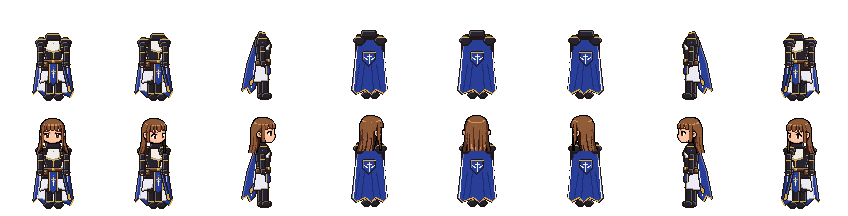
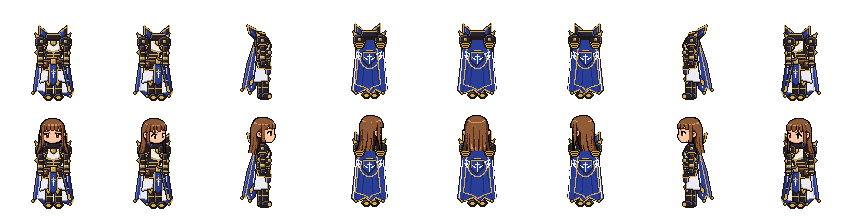
BladeMaster designs made grander than the Blader's
A tall flared armoured collar, great layered pauldrons with gold points,
gold filigree and a gem medallion on the chest, a trailing scarf end,
a double belt with a gold buckle, armoured hip plates, gold-cuffed
gauntlets with elbow points, gold knee guards and toe caps, an ornate
sword with a winged gold guard, and a gold-tipped cape framed in
filigree with the winged crest in a gold ring.

Claude-Session: https://claude.ai/code/session_01YNjFsLY1wykPSJC6NrukSP

diff --git a/src/bladers.js b/src/bladers.js
@@ -5,9 +5,13 @@
 //   her), a shield crest, a white shirt, brown belts, a shoulder strap and pouches, a navy tabard,
 //   fingerless brown gloves, black trousers (black tights and a short skirt on her), tall brown boots
 //   and a navy sheathed sword at the hip; a steel pauldron on his right shoulder.
-// - BladeMaster: black armour edged in gold with blue gems, a high collar, a long navy cape lined
-//   in white with pointed ends and the crest on its back, white and navy coat tails, black gauntlets
-//   and greaves (thigh-high boots on her), a navy scarf on him and a white breastplate on her.
+// - BladeMaster, grander than the Blader: black armour worked with gold filigree and blue gems, a
+//   tall flared collar standing behind the head, great layered pauldrons with gold points, a gem
+//   medallion on the chest, armoured hip plates, gold-cuffed gauntlets with elbow points, a long
+//   navy cape lined in white, gold-tipped and edged in filigree, with the winged crest in a gold ring
+//   on its back, white and navy coat tails, black greaves with gold knee guards and toe caps
+//   (thigh-high boots on her), an ornate sword with a winged gold guard, a navy scarf on him and a
+//   white breastplate on her.
 // Standing only for now (the design), 8 directions: the left ones are the right ones mirrored.
 // Not used in the game yet. Plain canvas, no three.js.
 import { Frame, ellipse, rect, poly, line } from './painted.js';
@@ -43,6 +47,45 @@ function crest(F, x, y, C, big = false) {
   F.part(line(x, y - 2 * k, x, y + 2 * k + (big ? 1 : 0), 1), C.crest, flat);
   F.part(line(x - k, y - k, x + k, y - k, 1), C.crest, flat);
   if (big) { F.part(line(x - 5, y - 1, x - 2, y + 1, 1), C.crest, flat); F.part(line(x + 5, y - 1, x + 2, y + 1, 1), C.crest, flat); }
+}
+
+// a thin ring of dots (the BladeMaster's back crest)
+function ring(F, x, y, rx, ry, col) {
+  for (let a = 0; a < 64; a++) F.dot(x + Math.cos((a / 64) * 2 * Math.PI) * rx, y + Math.sin((a / 64) * 2 * Math.PI) * ry, col);
+}
+const edge = (F, pts, col) => { for (let i = 0; i < pts.length - 1; i++) F.part(line(...pts[i], ...pts[i + 1], 1), col, flat); };
+
+// one side of the BladeMaster's tall collar: black armour standing up behind the head and flaring
+// out beside it, navy inside, edged in gold. X(u): a point u pixels out from the middle on this side
+function collar(F, X, cy, C) {
+  const pts = [[X(4), cy + 3], [X(6), cy - 4], [X(14), cy - 10], [X(14), cy - 2], [X(10), cy + 4]];
+  F.part(poly(pts), C.armor);
+  F.part(poly([[X(7), cy + 1], [X(7), cy - 3], [X(12), cy - 7], [X(12), cy - 2], [X(9), cy + 2]]), C.cape, soft);
+  edge(F, pts.slice(1, 4), C.trim);
+  F.dot(X(14), cy - 11, C.trim);
+}
+
+// one great pauldron: three gold-edged plates, a gold point flaring up and out, a gem. x: its
+// middle; side: -1 on the viewer's left, 1 on the right
+function pauldron(F, x, cy, side, f, C) {
+  const w = f ? 5 : 6.5;
+  F.part(poly([[x - side * 2, cy + 2], [x + side * (w + 1), cy - 3], [x + side * (w - 1), cy + 3]]), C.trim); // the point
+  for (const [dy, rw, rh] of [[11, w - 1, 2.5], [8, w, 3], [5, w + 0.5, 4]]) {
+    F.part(ellipse(x, cy + dy, rw, rh), C.armor);
+    F.part(line(x - rw * 0.6, cy + dy + rh - 0.5, x + rw * 0.6, cy + dy + rh - 0.5, 1), C.trim, flat); // a gold edge along its curve
+    F.dot(x - rw * 0.85, cy + dy + rh - 1.5, C.trim); F.dot(x + rw * 0.85, cy + dy + rh - 1.5, C.trim);
+  }
+  F.part(ellipse(x, cy + 5, 1.6, 1.6), C.trim);
+  F.dot(x, cy + 5, C.gem);
+}
+
+// the BladeMaster's sword hilt: a winged gold guard, a dark grip, a gem pommel; (x, y) the guard's middle
+function hilt(F, x, y, C, dir = 1) {
+  F.part(poly([[x - 4, y - 2], [x - 1, y], [x + 1, y], [x + 4, y - 2], [x + 3, y + 1], [x - 3, y + 1]]), C.trim);
+  F.dot(x, y, C.gem);
+  F.part(line(x - dir, y - 2, x - 2 * dir, y - 5, 1), C.armor, flat);
+  F.part(ellipse(x - 2 * dir, y - 6, 1.5, 1.5), C.trim);
+  F.dot(x - 2 * dir, y - 6, C.gem);
 }
 
 // the tabard's emblem: a little sword, point down, its guard and pommel in gold
@@ -86,10 +129,11 @@ function legs(F, o, cx, cy, r, toe) {
       // gold-edged greaves with a pointed knee guard and a gem
       F.part(line(cx + a - (f ? 0 : 1) + sh, knee, cx + b + (f ? 0 : 1) + sh, knee, 1), C.trim, flat);
       const ky = f ? cy + 44 : cy + 45;
-      F.part(poly([[mid - 3, ky - 2], [mid + 3, ky - 2], [mid + 3, ky + 2], [mid, ky + 5], [mid - 3, ky + 2]]), C.armor);
-      F.part(line(mid - 3, ky - 2, mid + 3, ky - 2, 1), C.trim, flat);
+      F.part(poly([[mid, ky - 6], [mid + 3, ky - 2], [mid + 3, ky + 2], [mid, ky + 6], [mid - 3, ky + 2], [mid - 3, ky - 2]]), C.trim);
+      F.part(poly([[mid, ky - 3], [mid + 1, ky], [mid, ky + 3], [mid - 1, ky]]), C.armor, flat);
       F.dot(mid, ky, C.gem);
-      F.part(line(mid - 3, cy + 57, mid + 3, cy + 57, 1), C.trim, flat);
+      F.part(line(mid - 3, cy + 52, mid + 3, cy + 52, 1), C.trim, flat); // a gold band and toe cap
+      F.part(ellipse(cx + (a + b) / 2 + toe + sh + (i ? 0.5 : -0.5), cy + 61, 2, 1.2), C.trim, flat);
     } else {
       // a folded cuff with a steel knee cap
       F.part(rect(cx + a - (f ? 0 : 1) + sh, knee, cx + b + (f ? 0 : 1) + sh, knee + 1), C.leather, soft);
@@ -111,6 +155,7 @@ function frontView(F, o, cx, cy, s, r) {
     F.part(line(R(cx + W + 2), cy + 20, R(cx + W + 4), cy + 52, 1), C.liningDk, flat);
     F.part(line(cx - W - 9, cy + 58, cx - W - 5, cy + 54, 1), C.trim, flat);
     F.part(line(R(cx + W + 6), cy + 61, R(cx + W + 9), cy + 55, 1), C.trim, flat);
+    for (const [x, y] of [hem[0], hem[2], hem[4], hem[6]]) F.part(poly([[x - 1.5, y - 2], [x + 1.5, y - 2], [x, y + 1]]), C.trim);
   }
   legs(F, o, cx, cy, r, s);
 
@@ -128,6 +173,14 @@ function frontView(F, o, cx, cy, s, r) {
     F.part(line(cx + 4 + s, cy + 28, cx + 4 + s, cy + (f ? 46 : 52), 1), C.trim, flat);
     emblem(F, cx + s, cy + 34, C);
     F.dot(cx + s, cy + 31, C.gem);
+    // armoured hip plates over the tails
+    for (const side of [-1, 1]) {
+      const o0 = side < 0 ? cx - hip - 2 : R(cx + hip + 2), i0 = cx + side * 4 + s;
+      const pts = [[i0, cy + 27], [o0, cy + 27], [o0 - side, cy + 34], [i0 + side, cy + 33]];
+      F.part(poly(pts), C.armor);
+      edge(F, pts.slice(1).concat([pts[0]]), C.trim);
+      F.dot((o0 + i0) / 2, cy + 30, C.gem);
+    }
   } else {
     if (f) F.part(poly([[cx - hip, cy + 27], [R(cx + hip), cy + 27], [R(cx + hip + 2), cy + 35], [cx - hip - 2, cy + 35]]), C.shirt); // the white skirt
     else F.part(poly([[cx - hip, cy + 27], [R(cx + hip), cy + 27], [R(cx + hip + 1), cy + 38], [cx - hip - 1, cy + 38]]), C.shirt); // the shirt's tails
@@ -143,12 +196,19 @@ function frontView(F, o, cx, cy, s, r) {
     F.part(line(cx - 7 + s, cy + 14, cx + s, cy + 16, 1), C.trim, flat);
     F.part(line(cx + s, cy + 16, cx + 7 + s, cy + 14, 1), C.trim, flat);
     F.part(line(cx + s, cy + 17, cx + s, cy + 23, 1), C.trim, flat); // the corset's lacing
-    F.dot(cx + s, cy + 7, C.gem);
+    for (const y of [18, 21]) F.part(line(cx - waist + 1, cy + y, R(cx + waist - 1), cy + y, 1), C.trim, flat); // its gold ribs
+    edge(F, [[cx - 5 + s, cy + 6], [cx + s, cy + 10], [cx + 5 + s, cy + 6]], C.trim); // filigree on the breastplate
+    F.part(ellipse(cx + s, cy + 6, 2, 2), C.trim);
+    F.dot(cx + s, cy + 6, C.gem);
   } else if (m) {
-    F.part(poly([[cx - 4 + s, cy + 3], [cx + 4 + s, cy + 3], [cx + s, cy + 14]]), C.shirt); // the shirt in the open collar
-    F.part(line(cx - 5 + s, cy + 3, cx - 1 + s, cy + 20, 1), C.trim, flat); // the coat's gold edges
-    F.part(line(cx + 5 + s, cy + 3, cx + 1 + s, cy + 20, 1), C.trim, flat);
-    F.dot(cx + s, cy + 17, C.gem);
+    F.part(poly([[cx - 4 + s, cy + 3], [cx + 4 + s, cy + 3], [cx + s, cy + 10]]), C.shirt); // the shirt in the open collar
+    F.part(line(cx - 5 + s, cy + 3, cx - 1 + s, cy + 21, 1), C.trim, flat); // the coat's gold edges
+    F.part(line(cx + 5 + s, cy + 3, cx + 1 + s, cy + 21, 1), C.trim, flat);
+    edge(F, [[cx - W + 2, cy + 9], [cx - 6 + s, cy + 14], [cx - 3 + s, cy + 14]], C.trim); // filigree across the chest
+    edge(F, [[R(cx + W - 2), cy + 9], [cx + 6 + s, cy + 14], [cx + 3 + s, cy + 14]], C.trim);
+    F.part(line(cx - W + 1, cy + 19, R(cx + W - 1), cy + 19, 1), C.trim, flat);
+    F.part(ellipse(cx + s, cy + 14, 2.5, 2.5), C.trim); // the gem medallion
+    F.dot(cx + s, cy + 14, C.gem); F.dot(cx + s, cy + 13, '#a8ccff');
   } else if (f) {
     F.part(line(cx - W + 2, cy + 15, R(cx + W - 2), cy + 15, 1), C.strap, flat); // the harness under the chest
     F.part(line(cx - 6 + s, cy + 4, cx + 6 + s, cy + 21, 2), C.strap, flat);
@@ -157,9 +217,13 @@ function frontView(F, o, cx, cy, s, r) {
     F.dot(cx - 2 + s, cy + 13, C.trim);
   }
 
-  // the belt, its buckle and pouches
+  // the belt, its buckle and pouches (the BladeMaster's doubled, with a gold buckle and a gem)
   F.part(rect(cx - hip, cy + 24, R(cx + hip), cy + 26), C.leather);
-  F.part(rect(cx - 1 + s, cy + 24, cx + 1 + s, cy + 26), C.trim, soft);
+  if (m) {
+    F.part(line(cx - hip, cy + 27, R(cx + hip), cy + 26, 1), C.strap, flat);
+    F.part(rect(cx - 2 + s, cy + 23, cx + 2 + s, cy + 27), C.trim);
+    F.dot(cx + s, cy + 25, C.gem);
+  } else F.part(rect(cx - 1 + s, cy + 24, cx + 1 + s, cy + 26), C.trim, soft);
   F.part(rect(cx - hip + 1, cy + 26, cx - hip + 4, cy + 30), C.leather);
   if (!m) F.part(rect(R(cx + hip - 4), cy + 26, R(cx + hip - 1), cy + 30), C.leather);
   F.dot(cx - hip + 2, cy + 27, C.trim);
@@ -167,23 +231,24 @@ function frontView(F, o, cx, cy, s, r) {
   // the sword at the far hip, in its navy sheath
   F.part(line(R(cx + 9), cy + 26, R(cx + 16), cy + 54, 2), C.sheath);
   F.part(line(R(cx + 15), cy + 50, R(cx + 16), cy + 54, 2), C.trim, flat);
-  F.part(line(R(cx + 6), cy + 24, R(cx + 12), cy + 22, 1), C.trim, flat); // the cross-guard
-  F.part(line(R(cx + 8), cy + 21, R(cx + 7), cy + 18, 1), m ? C.armor : C.strap, flat);
-  if (m) F.dot(R(cx + 9), cy + 23, C.gem);
+  if (m) {
+    for (const y of [34, 44]) F.dot(R(cx + 9 + Math.round((y - 26) / 4)), cy + y, C.trim), F.dot(R(cx + 10 + Math.round((y - 26) / 4)), cy + y, C.trim);
+    hilt(F, R(cx + 9), cy + 23, C, -1);
+  } else {
+    F.part(line(R(cx + 6), cy + 24, R(cx + 12), cy + 22, 1), C.trim, flat); // the cross-guard
+    F.part(line(R(cx + 8), cy + 21, R(cx + 7), cy + 18, 1), C.strap, flat);
+  }
 
   // the shoulders: a capelet with the collar (Blader), armour and the collar (BladeMaster)
   if (m) {
+    for (const side of [-1, 1]) collar(F, (u) => (side < 0 ? cx - u : R(cx + u)) + s, cy, C);
     F.part(poly([[cx - 6 + s, cy - 2], [cx + 6 + s, cy - 2], [cx + 8 + s, cy + 4], [cx - 8 + s, cy + 4]]), C.armor); // the high collar
     F.part(line(cx - 6 + s, cy - 2, cx + 6 + s, cy - 2, 1), C.trim, flat);
-    if (!f) F.part(ellipse(cx + s, cy + 3, 6, 2), C.scarf); // the navy scarf
-    for (const side of [-1, 1]) {
-      const x = side < 0 ? cx - W - 1 : R(cx + W + 1);
-      F.part(ellipse(x, cy + 6, f ? 5 : 6, 4), C.armor);
-      F.part(ellipse(x, cy + 9, f ? 4.5 : 5.5, 3), C.armor);
-      F.part(line(x - (f ? 4 : 5), cy + 3, x + (f ? 4 : 5), cy + 3, 1), C.trim, flat);
-      F.part(line(x - (f ? 4 : 5), cy + 11, x + (f ? 4 : 5), cy + 11, 1), C.trim, flat);
-      F.dot(x, cy + 6, C.gem);
+    if (!f) { // the navy scarf, one end trailing down his chest
+      F.part(ellipse(cx + s, cy + 3, 6, 2), C.scarf);
+      F.part(poly([[cx + 2 + s, cy + 4], [cx + 5 + s, cy + 4], [cx + 6 + s, cy + 11], [cx + 3 + s, cy + 12]]), C.scarf);
     }
+    for (const side of [-1, 1]) pauldron(F, side < 0 ? cx - W - 1 : R(cx + W + 1), cy, side, f, C);
   } else {
     for (const side of [-1, 1]) {
       const sx = side < 0 ? cx - W : R(cx + W), ix = cx + side * 5 + s;
@@ -214,7 +279,14 @@ function frontView(F, o, cx, cy, s, r) {
     F.part(rect(x0, m ? cy + 16 : cy + 20, x1, cy + 26), m ? C.armor : C.leather);
     F.part(line(x0, m ? cy + 16 : cy + 20, x1, m ? cy + 16 : cy + 20, 1), C.trim, flat);
     const hx = (x0 + x1) / 2;
+    if (m) { // a gold cuff, an elbow point
+      F.part(rect(x0, cy + 21, x1, cy + 23), C.trim, soft);
+      F.dot(hx, cy + 22, C.gem);
+      const ex = side < 0 ? x0 : x1;
+      F.part(poly([[ex, cy + 14], [ex + side * 3, cy + 17], [ex, cy + 19]]), C.trim);
+    }
     F.part(ellipse(hx, cy + 28, 2.8, 2.6), m ? C.armor : C.strap);
+    if (m) F.part(line(hx - 2, cy + 27, hx + 2, cy + 27, 1), C.trim, flat); // gold knuckles
     F.dot(hx, cy + 30, C.skin); F.dot(hx + side, cy + 30, C.skin);
   }
   return F;
@@ -251,15 +323,17 @@ function backView(F, o, cx, cy, s, r) {
     F.part(line(cx - W - 7, cy + 55, cx - W - 4, cy + 18, 1), C.lining, flat);
     F.part(line(R(cx + W + 7), cy + 55, R(cx + W + 4), cy + 18, 1), C.lining, flat);
     for (let i = 0; i < hem.length - 1; i++) F.part(line(hem[i][0], hem[i][1] - 1, hem[i + 1][0], hem[i + 1][1] - 1, 1), C.trim, flat);
+    for (const [x, y] of [hem[1], hem[3], hem[5]]) F.part(poly([[x - 1.5, y - 2], [x + 1.5, y - 2], [x, y + 1]]), C.trim); // gold tips
+    edge(F, [[cx - W + 1 + s, cy + 10], [cx - W - 3 + s, cy + 50], [cx - 4 + s, cy + 53], [cx + s, cy + 56], [R(cx + 5) + s, cy + 53], [R(cx + W + 3) + s, cy + 50], [R(cx + W - 1) + s, cy + 10]], C.trim); // the filigree
     F.part(rect(cx - W - 1 + s, cy + 1, R(cx + W + 1) + s, cy + 4), C.armor); // the collar and shoulders over it
     F.part(line(cx - W - 1 + s, cy + 1, R(cx + W + 1) + s, cy + 1, 1), C.trim, flat);
+    ring(F, cx + s, cy + 25, 9, 9, C.trim); // the winged crest in a gold ring
+    for (const side of [-1, 1]) edge(F, [[cx + side * 4 + s, cy + 22], [cx + side * 12 + s, cy + 17], [cx + side * 10 + s, cy + 22], [cx + side * 13 + s, cy + 21], [cx + side * 9 + s, cy + 26]], C.crest);
     crest(F, cx + s, cy + 24, C, true);
-    for (const side of [-1, 1]) {
-      const x = side < 0 ? cx - W - 1 : R(cx + W + 1);
-      F.part(ellipse(x, cy + 6, f ? 5 : 6, 4), C.armor);
-      F.part(line(x - (f ? 4 : 5), cy + 3, x + (f ? 4 : 5), cy + 3, 1), C.trim, flat);
-    }
-    if (f) F.part(poly([[cx - 7 + s, cy - 3], [cx + 7 + s, cy - 3], [cx + 8 + s, cy + 3], [cx - 8 + s, cy + 3]]), C.armor); // the high collar
+    for (const side of [-1, 1]) collar(F, (u) => (side < 0 ? cx - u : R(cx + u)) + s, cy, C);
+    for (const side of [-1, 1]) pauldron(F, side < 0 ? cx - W - 1 : R(cx + W + 1), cy, side, f, C);
+    F.part(poly([[cx - 7 + s, cy - 3], [cx + 7 + s, cy - 3], [cx + 8 + s, cy + 3], [cx - 8 + s, cy + 3]]), C.armor); // the collar's back
+    F.part(line(cx - 7 + s, cy - 3, cx + 7 + s, cy - 3, 1), C.trim, flat);
   } else {
     // the capelet over the back, gold-edged, with the crest
     F.part(poly([[cx - W - 1, cy + 2], [R(cx + W + 1), cy + 2], [R(cx + W + 4), cy + 12], [R(cx + W + 4), cy + 24], [cx - W - 4, cy + 24], [cx - W - 4, cy + 12]]), C.cape);
@@ -282,7 +356,13 @@ function side(F, o, cx, cy) {
     F.part(rect(x - 3, cy + 30, x + 2, cy + 58), C.pants);
     F.part(rect(x - 3, knee, x + 2, cy + 58), C.boot);
     F.part(ellipse(x + 1, cy + 60.5, 4.5, 2.5), C.boot);
-    if (m) { F.part(line(x - 3, knee, x + 2, knee, 1), C.trim, flat); F.part(poly([[x + 1, cy + 42], [x + 4, cy + 44], [x + 2, cy + 49]]), C.armor); F.dot(x + 2, cy + 44, C.gem); }
+    if (m) {
+      F.part(line(x - 3, knee, x + 2, knee, 1), C.trim, flat);
+      F.part(poly([[x + 1, cy + 39], [x + 5, cy + 44], [x + 2, cy + 50], [x, cy + 44]]), C.trim);
+      F.dot(x + 2, cy + 44, C.gem);
+      F.part(line(x - 3, cy + 52, x + 2, cy + 52, 1), C.trim, flat);
+      F.part(ellipse(x + 4, cy + 61, 1.5, 1), C.trim, flat);
+    }
     else F.part(poly([[x + 1, knee + 1], [x + 4, knee + 2], [x + 2, knee + 6]]), col);
   };
   // the cape behind
@@ -291,6 +371,13 @@ function side(F, o, cx, cy) {
     F.part(line(cx - 6, cy + 10, cx - 12, cy + 52, 1), C.lining, flat);
     F.part(line(cx - 21, cy + 55, cx - 16, cy + 52, 1), C.trim, flat);
     F.part(line(cx - 16, cy + 52, cx - 13, cy + 58, 1), C.trim, flat);
+    F.part(line(cx - 9, cy + 10, cx - 18, cy + 52, 1), C.trim, flat);
+    for (const [x, y] of [[cx - 21, cy + 56], [cx - 13, cy + 59]]) F.part(poly([[x - 1.5, y - 2], [x + 1.5, y - 2], [x, y + 1]]), C.trim);
+    // the tall collar behind the head
+    const pts = [[cx - 3, cy + 3], [cx - 6, cy - 5], [cx - 16, cy - 10], [cx - 14, cy - 2], [cx - 8, cy + 4]];
+    F.part(poly(pts), C.armor);
+    F.part(poly([[cx - 7, cy + 1], [cx - 8, cy - 3], [cx - 13, cy - 7], [cx - 12, cy - 2], [cx - 9, cy + 2]]), C.cape, soft);
+    edge(F, pts.slice(1, 4), C.trim);
   }
   // the sword at the far hip, behind
   F.part(line(cx + 3, cy + 24, cx - 13, cy + 48, 2), C.sheath);
@@ -307,7 +394,17 @@ function side(F, o, cx, cy) {
   if (m && f) F.part(poly([[cx + 1, cy + 5], [cx + 7, cy + 9], [cx + 6, cy + 15], [cx + 1, cy + 15]]), C.shirt, soft);
   F.part(rect(cx - 6, cy + 24, cx + 6, cy + 26), C.leather);
   F.part(rect(cx + 5, cy + 24, cx + 6, cy + 26), C.trim, soft);
-  if (m) F.part(poly([[cx - 7, cy + 26], [cx - 3, cy + 26], [cx - 3, cy + 30], [cx - 7, cy + 30]]), C.leather);
+  if (m) {
+    F.part(poly([[cx - 7, cy + 26], [cx - 3, cy + 26], [cx - 3, cy + 30], [cx - 7, cy + 30]]), C.leather);
+    const pts = [[cx - 6, cy + 27], [cx + 7, cy + 27], [cx + 8, cy + 34], [cx - 5, cy + 33]]; // the hip plate
+    F.part(poly(pts), C.armor);
+    edge(F, pts.slice(1).concat([pts[0]]), C.trim);
+    F.dot(cx + 2, cy + 30, C.gem);
+    F.part(rect(cx - 1, cy + 23, cx + 3, cy + 27), C.trim);
+    F.part(line(cx - 6, cy + 10, cx + 5, cy + 10, 1), C.trim, flat); // filigree on the armour
+    F.part(line(cx - 6, cy + 19, cx + 6, cy + 19, 1), C.trim, flat);
+    hilt(F, cx + 4, cy + 23, C, -1);
+  }
   // shoulders and collar
   if (m) {
     F.part(poly([[cx - 4, cy - 3], [cx + 2, cy - 2], [cx + 3, cy + 4], [cx - 6, cy + 4]]), C.armor);
@@ -322,14 +419,12 @@ function side(F, o, cx, cy) {
     else F.part(ellipse(cx - 1, cy + 2, 6, 3), C.cape);
   }
   // the near arm, hanging
-  if (m) {
-    F.part(ellipse(cx - 1, cy + 7, 5.5, 4.5), C.armor);
-    F.part(line(cx - 5, cy + 3, cx + 3, cy + 3, 1), C.trim, flat);
-    F.dot(cx - 1, cy + 7, C.gem);
-  } else if (!f) F.part(ellipse(cx - 1, cy + 6, 4.5, 3.5), C.steel);
+  if (m) pauldron(F, cx - 1, cy, -1, f, C);
+  else if (!f) F.part(ellipse(cx - 1, cy + 6, 4.5, 3.5), C.steel);
   F.part(rect(cx - 3, cy + (m ? 11 : 20), cx + 1, cy + 26), m ? C.armor : C.leather);
   if (!m) F.part(rect(cx - 3, cy + 18, cx + 1, cy + 19), C.shirt);
   F.part(line(cx - 3, cy + (m ? 16 : 20), cx + 1, cy + (m ? 16 : 20), 1), C.trim, flat);
+  if (m) { F.part(rect(cx - 3, cy + 21, cx + 1, cy + 23), C.trim, soft); F.part(poly([[cx - 3, cy + 14], [cx - 6, cy + 17], [cx - 3, cy + 19]]), C.trim); }
   F.part(ellipse(cx, cy + 28, 2.6, 2.6), m ? C.armor : C.strap);
   F.dot(cx + 2, cy + 29, C.skin);
   return F;
